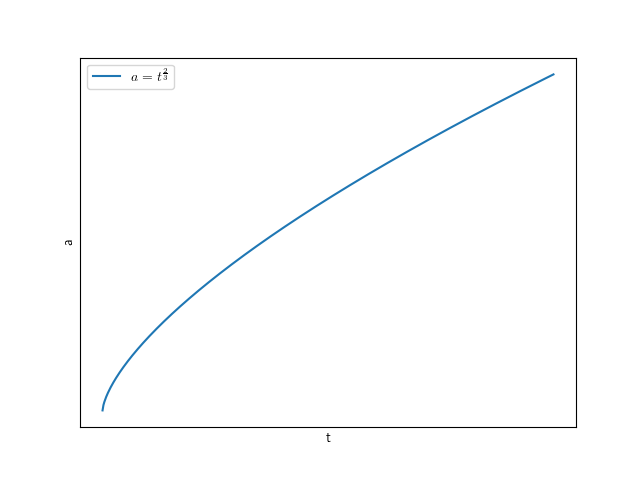
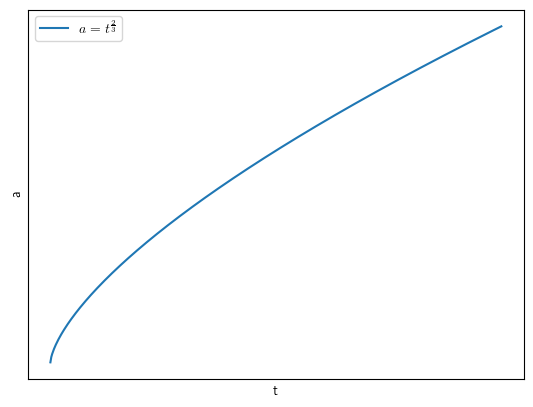
#22 Completed Lecture 2

diff --git a/cosmology.tex b/cosmology.tex
@@ -47,8 +47,7 @@
 \begin{abstract}
 	These are my notes for the \emph{Cosmology}\cite{susskind2013cosmology} lectures from Leonard Susskind's \emph{Theoretical Minimum} series\cite{susskind2007theoretical}. 
 	
-	Disclaimer: I have created these notes as an aide-m\'emoire for my own use; if you find them useful, you are welcome, but I'd appreciate hearing from you. They are not intended 
-	as a substitute for listening to the lectures. The intellectual property for all material derived from the lectures belongs, of course, to Professor Susskind; any mistakes, however, are my own.
+	Disclaimer: I have created these notes as an aide-m\'emoire for my own use; if you find them useful, you are welcome, but I'd appreciate hearing from you. They are not intended as a substitute for listening to the lectures. The intellectual property for all material derived from the lectures belongs, of course, to Professor Susskind; any mistakes, however, are my own.
 	
 	The notes were created using TexStudio\cite{TexStudio}, and the bibliography using JabRef\cite{Jabref}.
 \end{abstract}
@@ -132,7 +131,6 @@ Could Newton have figured out expanding universe given observations?
 	\end{center}
 \end{figure}
  
- 
  We postulate a more general formula for distance between two galaxies $a$ and $b$:
  
  \begin{align*}            
@@ -158,7 +156,19 @@ Assume  $\Delta x \Delta y \Delta z$ big enough that we can average over the sma
 
 Amount of mass in a given region of Figure \ref{fig:cosmo-1-grid} remains the same, as galaxies move with grid.
 
+\subsection{Newtonian derivation of Friedmann Equation}
 Choose grid to Newton at rest at centre of universe. He looks out at distant galaxy, which move in accordance with Newton's laws. He would use Newton's Theorem--Figure \ref{fig:newtons:thm}.
+
+\begin{thm}[Newton's shell theorem]
+	\begin{enumerate}
+		\item A spherically symmetric body affects external objects gravitationally as though all of its mass were concentrated at a point at its center.
+		\item If the body is a spherically symmetric shell (i.e., a hollow ball), no net gravitational force is exerted by the shell on any object inside, regardless of the object's location within the shell.
+	\end{enumerate}
+\end{thm}
+
+\begin{proof}
+	Given in \cite{enwiki:1241447151}.
+\end{proof}
 
 \begin{figure}[H]
 	\caption[Newton's Theorem]{Newton's Theorem: to determine gravitational force on red body, assuming isotropy, draw sphere and calculate force if mass inside concentrated sphere in centre, and ignore mass outside.}\label{fig:newtons:thm}
@@ -320,7 +330,7 @@ There are two directions we want to go in.
 	\item What if energy is non-zero?
 \end{enumerate}
 
-\subsection{Matter Dominated Universe}
+\subsection{Matter dominated universe}
 \begin{figure}[H]
 	\caption{We compute the constant energy}
 		\begin{center}
@@ -372,20 +382,35 @@ Now there is a point where $\dot{a}=0$: the expansion stops, and $\dot{a}$ chang
 
 The matter dominated universe was the classic cosmology until other things were discovered. There are three cases, positive energy, negative and zero. In a later lecture we will find that this is connected to the geometry of the universe: this is the main contribution of General Relativity.
 
+
 \subsection{Radiation dominated universe}
 
 We do have to think about relativity, but there is only one important thing: $E=mc^2$. We rewrite Equation \eqref{eq:full:friedmann} to show the connection with general relativity, and define $\kappa = C$:
 
 \begin{align*}
-	\underbrace{\frac{\dot{a}}{a}^2  - \frac{\kappa}{a^2}}_\text{Terms involving geometry}=& \underbrace{\frac{8\pi}{3} G \rho}_\text{Matter and energy} 
+	\underbrace{\frac{\dot{a}}{a}^2  - \frac{\kappa}{a^2}}_\text{Terms involving geometry}=& \underbrace{\frac{8\pi}{3} G \rho}_\text{Matter and energy} \numberthis \label{eq:geometry:energy}
 \end{align*}
 We'll replace mass density of energy density. Energy = $Mc^2 + $ Radiation (and we will choose units such that $c=1$).
 
 To compute radiation density, take a box, volume $a^3$, and assume a certain number of photons.
 
 \begin{figure}[H]
-	\caption[Unit box with photon]{Unit box with photon. Expand slowly, and wavelength grows in proportion; number remains unchanged.}\label{fig:unit:box}
-	\includegraphics[width=0.6\textwidth]{cosmo-2-unit-box}
+	\caption{Unit box with photons: $\lambda$ increases as box expands adiabatically }\label{fig:unit:box}
+	\begin{center}
+			\begin{subfigure}[t]{0.45\textwidth}
+				\begin{center}
+					\caption{As box expands adiabatically, photons do work on walls of box. Number of photons does not change.}
+					\includegraphics[width=\textwidth]{cosmo-2-unit-box}
+				\end{center}
+			\end{subfigure}
+			\;
+			\begin{subfigure}[t]{0.45\textwidth}
+				\begin{center}
+					\caption{An analogy with standing waves. Number of nodes (zero crossings) is an adiabatic invariant:  it has to be an integer.}
+					\includegraphics[width=\textwidth]{cosmo-2-standing-waves}
+				\end{center}
+			\end{subfigure}	
+	\end{center}
 \end{figure}
 
 \begin{align*}
@@ -406,12 +431,63 @@ We have to do some more quantum mechanics of classical electromagnetism to justi
 \end{align*}
 
 \begin{figure}[H]
-	\caption{Comparison of Radiation and Matter dominated universes}
-	\includegraphics[width=0.8\textwidth]{cosmo-2-a-r}
+	\caption{Comparison of radiation and matter dominated universes}\label{fig:cosmo-2-a-r}
+	\begin{center}
+			\includegraphics[width=0.8\textwidth]{cosmo-2-a-r}
+	\end{center}
 \end{figure}
 
 
-\section{Geometries of space: flat, spherical, hyperbolic}
+\subsection{Mixed case: neither matter nor radiation dominates}
+
+We consider a real universe with both matter and radiation.
+
+\begin{align*}
+	\big(\frac{\dot{a}}{a}\big)^2 =& \underbrace{\frac{C_m}{a^3}}_\text{More important for big $a$} + \underbrace{\frac{C_R}{a^4}}_\text{More important for small $a$}
+\end{align*}
+
+At start of expansion, radiation dominates, $t^{\frac{1}{2}}$, but later switches, $t^{\frac{2}{3}}$--Figure \ref{fig:cosmo-2-a-r}.
+
+\begin{itemize}
+	\item How do we know that there isn't conversion of matter to energy as universe expands? In practice mostly conserved separately once things cool to 1000K.
+
+	\item There is a third component: dark energy (dark matter is included in $C_m$).
+
+	\item Radiation includes photons, gravitons, and neutrinos, which move at speeds close to $c$.
+\end{itemize}
+
+This is the cosmology of 30 years prior to date of lecture (2013).
+
+What happens to radiation energy lost during expansion?
+\begin{align*}
+	\underbrace{- \big(\frac{\dot{a}}{a}\big)^2}_\text{Kinetic Energy} + \frac{C_m}{a^3} +\frac{C_R}{a^4} =& 0 
+\end{align*}
+
+Kinetic Energy is  tiny at present.
+
+There are two ways to think about time translation symmetry.
+\begin{enumerate}
+	\item The universe is a time dependent thing that everything moves in. There is no longer time translation symmetry, so energy doesn't have to be conserved.
+	\item There is time translation symmetry: starting universe at $t=-7$ is exactly that same as starting at $t=4$, but this adds an extra term to energy equation. This is very subtle and we'll discuss later.
+\end{enumerate}
+
+There are three cases in \eqref{eq:geometry:energy}.
+
+\begin{align*}
+	\big(\frac{\dot{a}}{a}\big)^2  =& \frac{8\pi\rho G}{3} - \frac{\kappa}{a^2} 
+\end{align*}
+
+In Section \ref{sec:geometries}, we will see that $\kappa$ is connected with geometry.
+\begin{itemize}
+	\item If $\kappa=0$, space is flat.
+	\item If $\kappa>0$, space is curved like a sphere, and it compact.
+	\item If $\kappa<0$, space is curved negatively.
+\end{itemize}
+
+
+\section{Geometries of space: flat, spherical, hyperbolic} \label{sec:geometries}
+
+
 
 \begin{quotation}
 	Professor Susskind presents three possible geometries of homogeneous space: flat (infinite), spherical (positively curved and finite), hyperbolic (negatively curved and infinite). He develops the metric for these three spatial geometries in spherical coordinates, and describes methodologies for determining which geometry represents our universe. To date, we have not been able to detect curvature in our universe. Professor Susskind concludes the lecture by introducing a time-dependent scale factor into the metric for each of these geometries.

diff --git a/plot_scale.py b/plot_scale.py
@@ -46,7 +46,7 @@ if __name__=='__main__':
     ax.get_xaxis().set_ticks([])
     ax.get_yaxis().set_ticks([])
     ax.legend()
-    fig.savefig('figs/cosmo-2-a-t')
+    fig.savefig('figs/cosmo-2-a-t',bbox_inches='tight')
 
     fig = plt.figure()
     ax = fig.add_subplot(1,1,1)
@@ -57,7 +57,7 @@ if __name__=='__main__':
     ax.get_xaxis().set_ticks([])
     ax.get_yaxis().set_ticks([])
     ax.legend()
-    fig.savefig('figs/cosmo-2-a-r')
+    fig.savefig('figs/cosmo-2-a-r',bbox_inches='tight')
 
     elapsed = time() - start
     minutes = int(elapsed/60)
